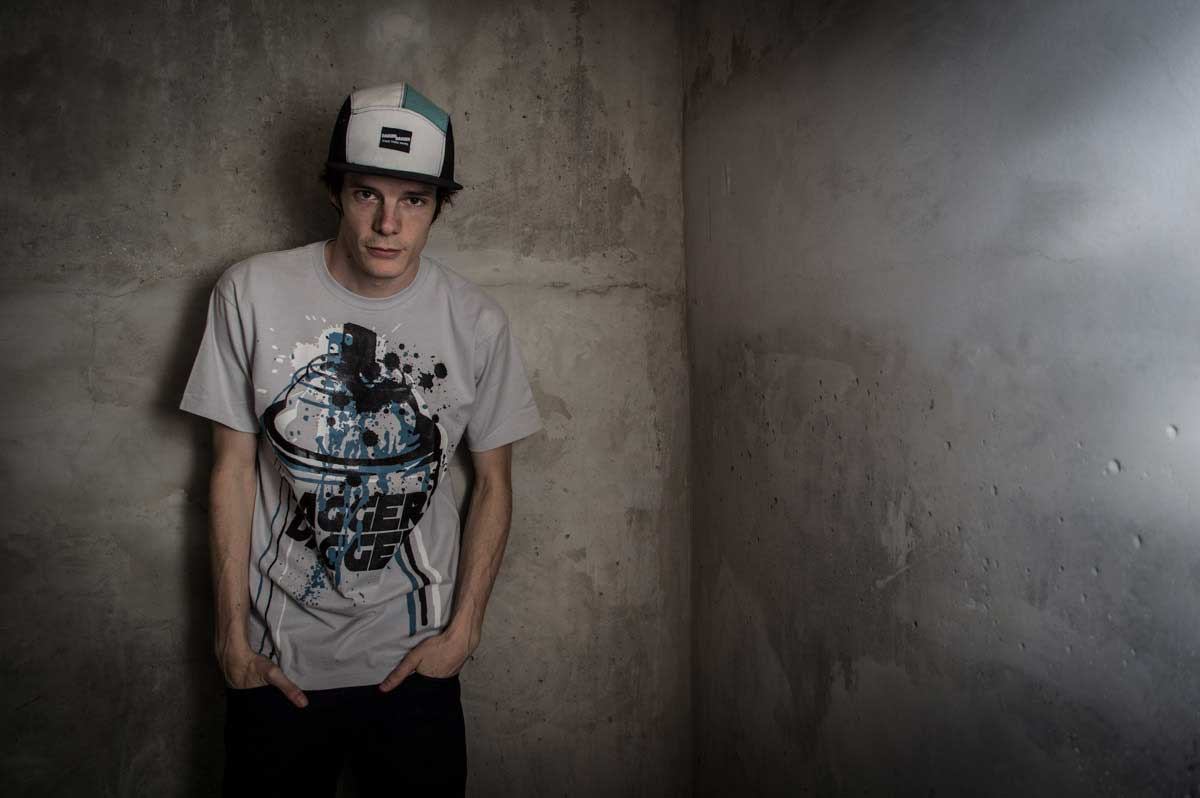
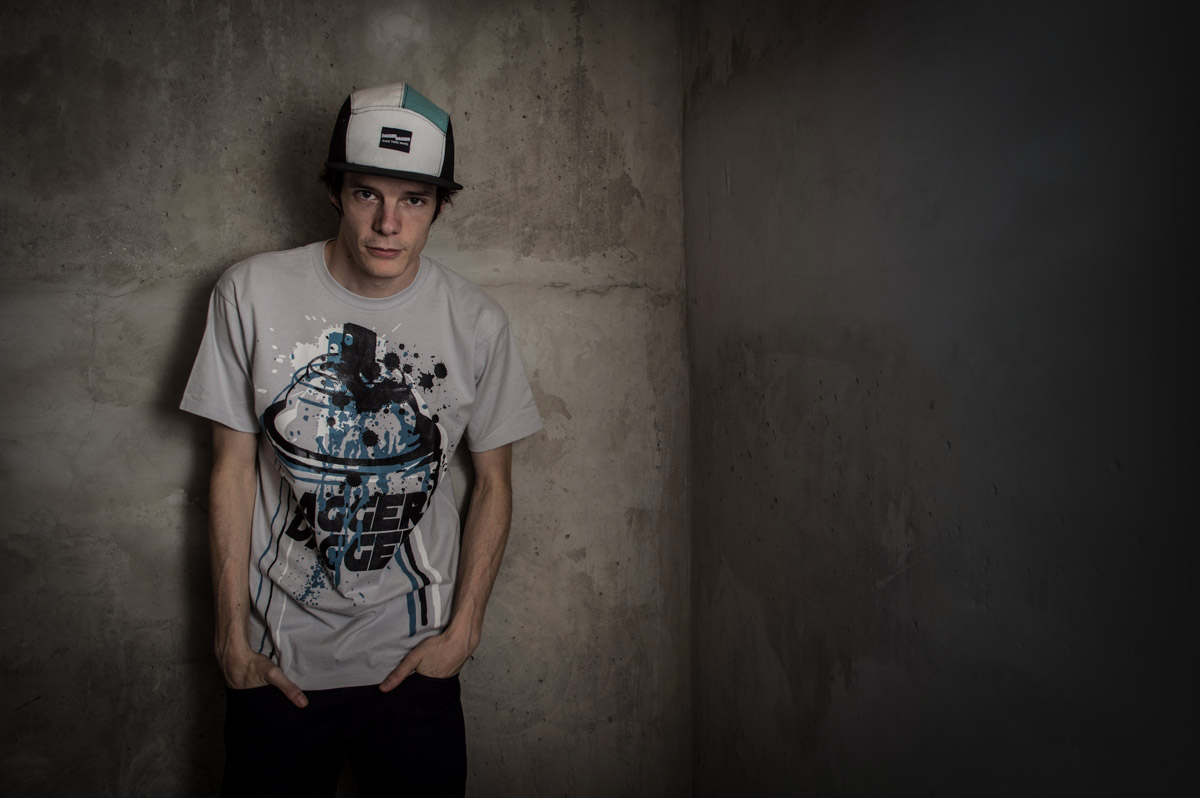
medium turquoise

Changed region(s): [[0.6475, 0.0, 1.0, 1.0]]

diff --git a/css/general.css b/css/general.css
@@ -48,7 +48,7 @@ article {
     overflow: hidden;
     height: 3.5rem;
     width: center;
-    background-color: dodgerblue;
+    background-color: mediumturquoise;
     padding: .5rem 5%;
 }
 
@@ -66,6 +66,7 @@ article {
     background-image: url(../images/clothingpicture.jpg);
     background-repeat: no-repeat;
     background-position: left center;
+    background-color: black;
     background-size: 30rem;
 }
 
@@ -76,13 +77,20 @@ article {
     padding:.25rem 5%;
 
 }
-     
+ 
+details {
+    font-size: 1.25rem;
+    margin: 0 0 1.5rem;
+    line-height: 1.75rem;
+    color: white;
+}
+
 .dropcap:first-letter {
     font-size: 3rem;
     font-weight: bold;
     float: left;
     margin: -.5rem .2rem 0 0;
-    color: grey;
+    color: mediumturquoise;
 }
 
 header {
@@ -97,8 +105,8 @@ h1 {
     font-size: 2rem;
     letter-spacing: -.1rem;
     text-transform: uppercase;
-    padding: .25rem 3%;
-    color:dodgerblue;
+    padding: .25rem 3% ;
+    color:mediumturquoise;
 }
 
 h2 {
@@ -107,6 +115,7 @@ h2 {
     line-height: 1.75rem;
     border-top: solid .1rem;
     padding: .5rem 0 0;
+    color: mediumturquoise;
 }
 
 h3 {
@@ -114,7 +123,7 @@ h3 {
     background-color: rgba( 171, 170, 167, .3);
     font-size: 2rem;
     padding:.55rem 5%;
-    color: dodgerblue;
+    color: mediumturquoise;
     border-top: solid .1rem;
 }
 
@@ -124,12 +133,7 @@ h4 {
     line-height: 1.75rem;
     border-top: solid .1rem;
     padding: .5rem 0 0;
-}
-
-details {
-    font-size: 1.25rem;
-    margin: 0 0 1.5rem;
-    line-height: 1.75rem;
+    color: mediumturquoise;
 }
 
 blockquote {
@@ -152,7 +156,7 @@ blockquote span {
 blockquote p:before {
     content: "“";
     font-size: 4rem;
-    color: dodgerblue;
+    color: mediumturquoise;
     float: left;
     margin: 1rem 0 0 -2rem;
 }
@@ -161,7 +165,7 @@ blockquote p:after {
     content: "”";
     font-size: 2rem;
     position:absolute;
-    color: dodgerblue;
+    color: mediumturquoise;
     margin: .2rem 0 0;
 }
 
@@ -174,11 +178,11 @@ figcaption {
     color: white;
     font-size: .75rem;
     padding: .5rem 5%;
-    background-color: red;
+    background-color: mediumturquoise;
 }
 
 footer {
-    background-color: dodgerblue;
+    background-color: mediumturquoise;
     overflow: hidden;
     margin: 0;
     padding: 0 5%;
